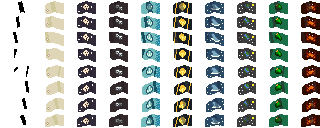
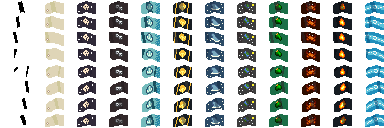
Implemented EternalFlame and SwiftWinds flags

diff --git a/FishingTrawler/Framework/Objects/Items/Rewards/AncientFlag.cs b/FishingTrawler/Framework/Objects/Items/Rewards/AncientFlag.cs
@@ -21,7 +21,9 @@ namespace FishingTrawler.Framework.Objects.Items.Rewards
         SharksFin,
         Worldly,
         SlimeKing,
-        KingCrab
+        KingCrab,
+        EternalFlame,
+        SwiftWinds
     }
 
     public class AncientFlag
@@ -68,6 +70,10 @@ namespace FishingTrawler.Framework.Objects.Items.Rewards
                     return FishingTrawler.i18n.Get("item.ancient_flag.slime_king.name");
                 case FlagType.KingCrab:
                     return FishingTrawler.i18n.Get("item.ancient_flag.king_crab.name");
+                case FlagType.EternalFlame:
+                    return FishingTrawler.i18n.Get("item.ancient_flag.eternal_flame.name");
+                case FlagType.SwiftWinds:
+                    return FishingTrawler.i18n.Get("item.ancient_flag.swift_winds.name");
                 default:
                     return FishingTrawler.i18n.Get("item.ancient_flag.unknown.name");
             }
@@ -95,6 +101,10 @@ namespace FishingTrawler.Framework.Objects.Items.Rewards
                     return FishingTrawler.i18n.Get("item.ancient_flag.slime_king.description");
                 case FlagType.KingCrab:
                     return FishingTrawler.i18n.Get("item.ancient_flag.king_crab.description");
+                case FlagType.EternalFlame:
+                    return FishingTrawler.i18n.Get("item.ancient_flag.eternal_flame.description");
+                case FlagType.SwiftWinds:
+                    return FishingTrawler.i18n.Get("item.ancient_flag.swift_winds.description");
                 default:
                     return FishingTrawler.i18n.Get("item.ancient_flag.unknown.description");
             }

diff --git a/FishingTrawler/Framework/GameLocations/TrawlerCabin.cs b/FishingTrawler/Framework/GameLocations/TrawlerCabin.cs
@@ -28,6 +28,8 @@ namespace FishingTrawler.GameLocations
         private static int _completedComputerCycles = 0;
         private static int _computerCooldownMilliseconds = BASE_COMPUTER_MILLISECONDS;
 
+        internal bool hasSwiftWinds;
+
         public TrawlerCabin()
         {
 
@@ -35,6 +37,8 @@ namespace FishingTrawler.GameLocations
 
         internal TrawlerCabin(string mapPath, string name) : base(mapPath, name)
         {
+            hasSwiftWinds = false;
+
             _computerLocations = new List<Location>();
 
             Layer buildingsLayer = map.GetLayer("Buildings");
@@ -239,10 +243,10 @@ namespace FishingTrawler.GameLocations
         public Buff GetCoffeeBuff()
         {
             int speedBuff = 9;
-            var buff = new Buff(null, 60000, COFFEE_MACHINE_SOURCE, speedBuff) { displaySource = FishingTrawler.i18n.Get("etc.coffee_machine") };
+            var buff = new Buff(null, hasSwiftWinds is true ? 60000 * 3 : 60000, COFFEE_MACHINE_SOURCE, speedBuff) { displaySource = FishingTrawler.i18n.Get("etc.coffee_machine") };
 
-            // Set the speed buff to +2
-            buff.buffAttributes[speedBuff] = 2;
+            // Set the speed buff to +2 (+3 if using Swift Winds flag)
+            buff.buffAttributes[speedBuff] = hasSwiftWinds is true ? 3 : 2;
 
             return buff;
         }

diff --git a/FishingTrawler/Framework/FishingTrawler.cs b/FishingTrawler/Framework/FishingTrawler.cs
@@ -303,6 +303,15 @@ namespace FishingTrawler
                         // Causes the trawler to only catch crab pot based creatures, higher chance of crab
                         _trawlerRewards.Value.hasKingCrab = true;
                         break;
+                    case FlagType.EternalFlame:
+                        // Doubles net output, but doubles fuel consumption
+                        _trawlerSurface.Value.fishCaughtMultiplier = 2;
+                        _trawlerHull.Value.fuelConsumptionIncrement = -Math.Abs(_trawlerHull.Value.fuelConsumptionIncrement * 2);
+                        break;
+                    case FlagType.SwiftWinds:
+                        // Increase Murphy's coffee buff to 3 minutes and increase the power by 1
+                        _trawlerCabin.Value.hasSwiftWinds = true;
+                        break;
                     default:
                         // Do nothing
                         break;

diff --git a/FishingTrawler/Framework/GameLocations/TrawlerSurface.cs b/FishingTrawler/Framework/GameLocations/TrawlerSurface.cs
@@ -264,7 +264,7 @@ namespace FishingTrawler.GameLocations
             List<int> indexes = new List<int>();
             for (int offset = 0; offset < 8; offset++)
             {
-                indexes.Add(startingIndex + 20 * offset);
+                indexes.Add(startingIndex + (Enum.GetNames(typeof(FlagType)).Length * 2) * offset);
             }
 
             return indexes.ToArray();
